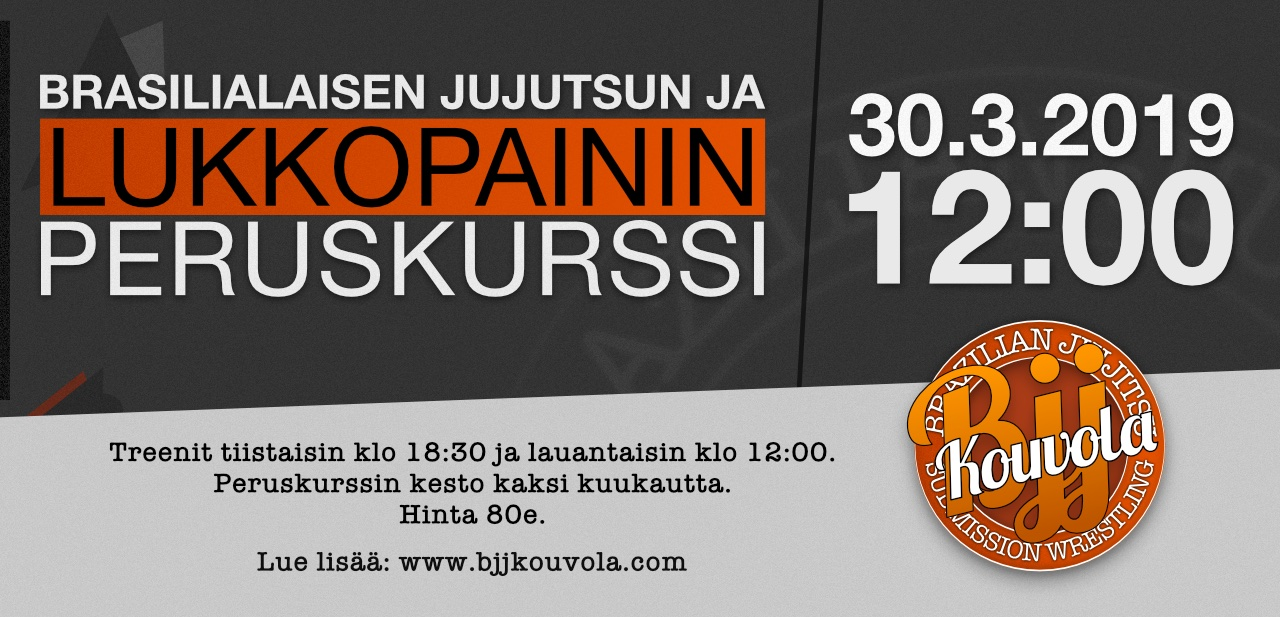
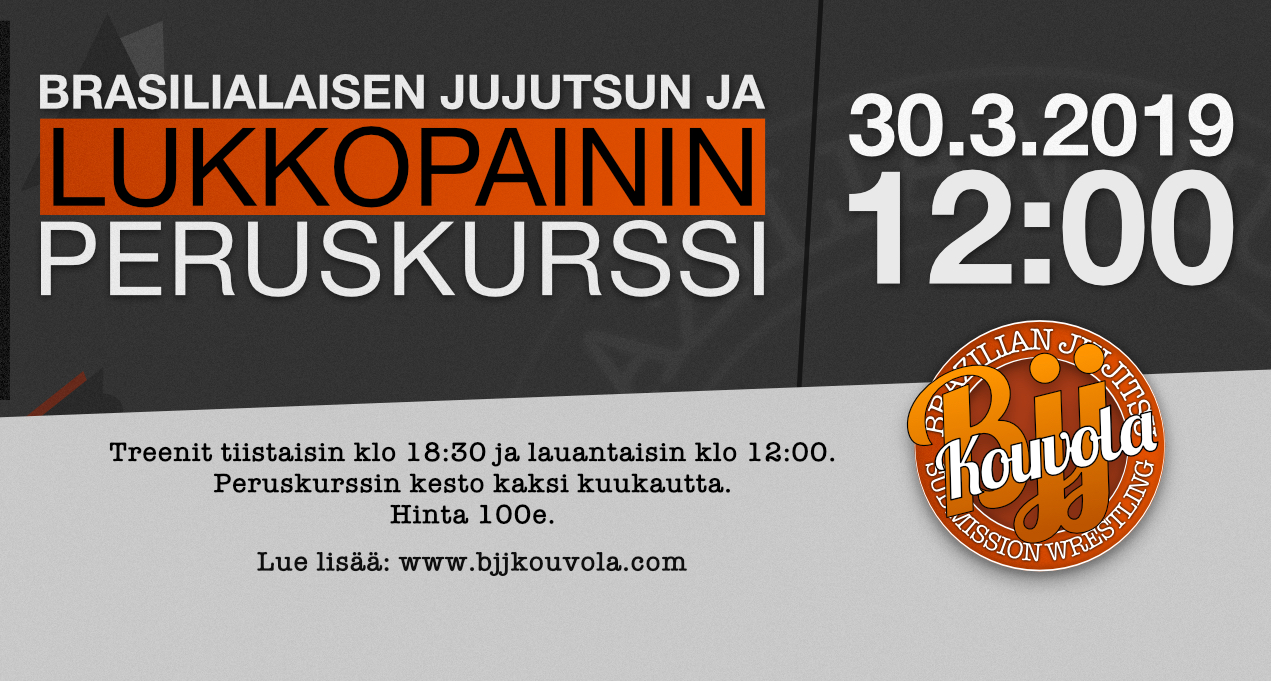
fix typos

diff --git a/index.html b/index.html
@@ -113,7 +113,7 @@
                                 </div>
                                 <div class="description">
                                     <p>Brasilialaisen jujutsun ja lukkopainin peruskurssi alkaa lauantaina 30.3.19 klo 12.</p>
-                                    <p>Treenit tiistaisin klo 18:30 ja lauantai 12:00, peruskurssi kestää noin kaksi kuukautta ja maksaa 80e. Alkuun pääsee t-paidalla ja shortseilla, salilla liikkumista varten on hyvä olla sandaalit. </p>
+                                    <p>Treenit tiistaisin klo 18:30 ja lauantai 12:00, peruskurssi kestää noin kaksi kuukautta ja maksaa 100e. Alkuun pääsee t-paidalla ja shortseilla, salilla liikkumista varten on hyvä olla sandaalit. </p>
                                     <p>Peruskurssilla opit mattokamppailun alkeet, saat itsellesi uuden hienon harrastuksen ja mahdollisuuden kilpailu-urheilullekin.</p>
                                     <p>Tämä peruskurssi on tarkoitettu yli 15-vuotiaille. Tervetuloa!</p>
                                 </div>
